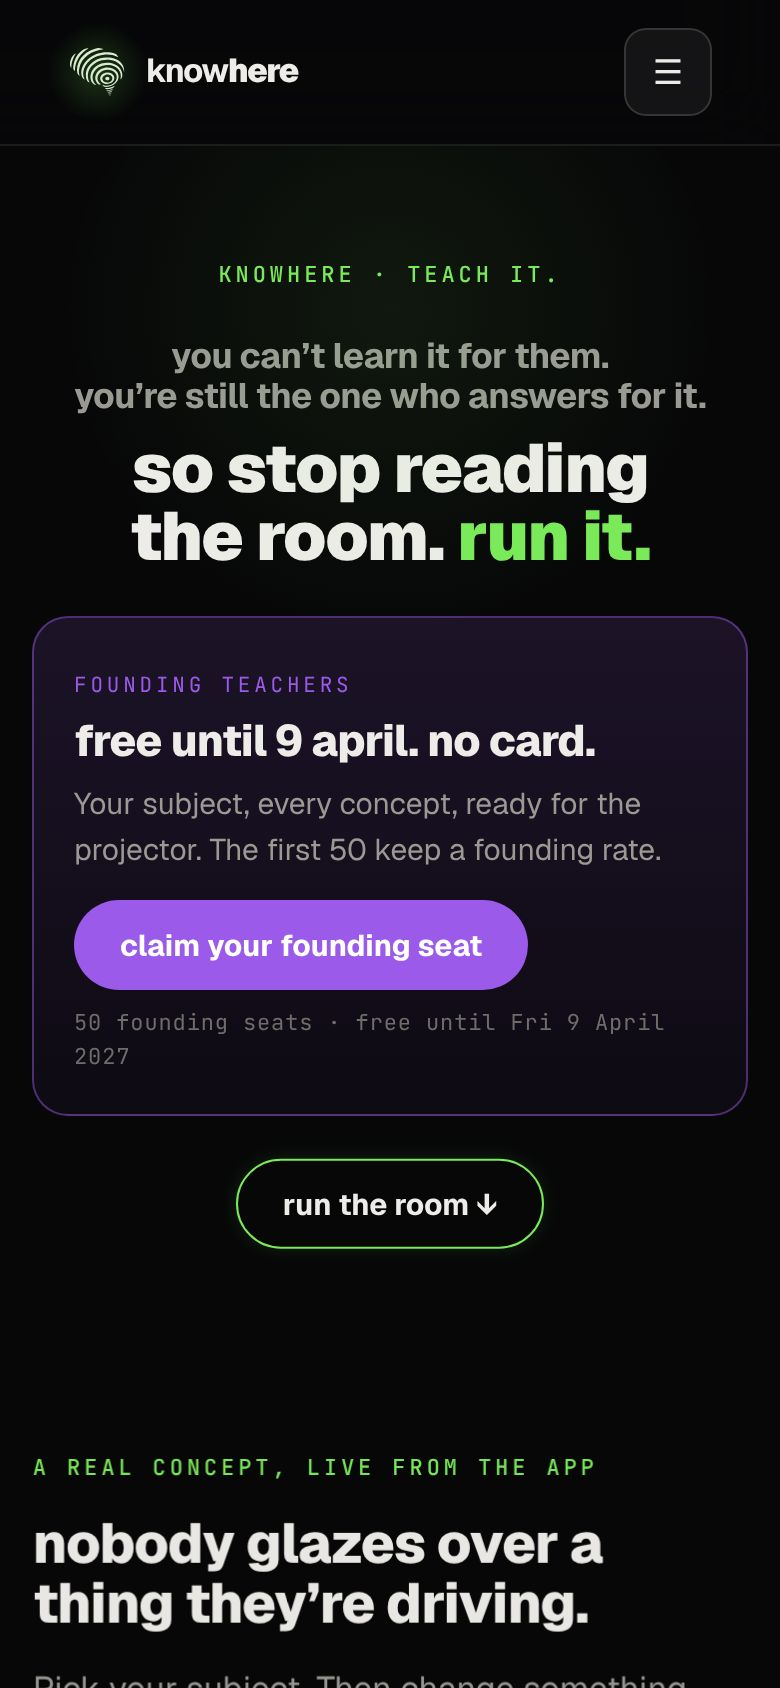
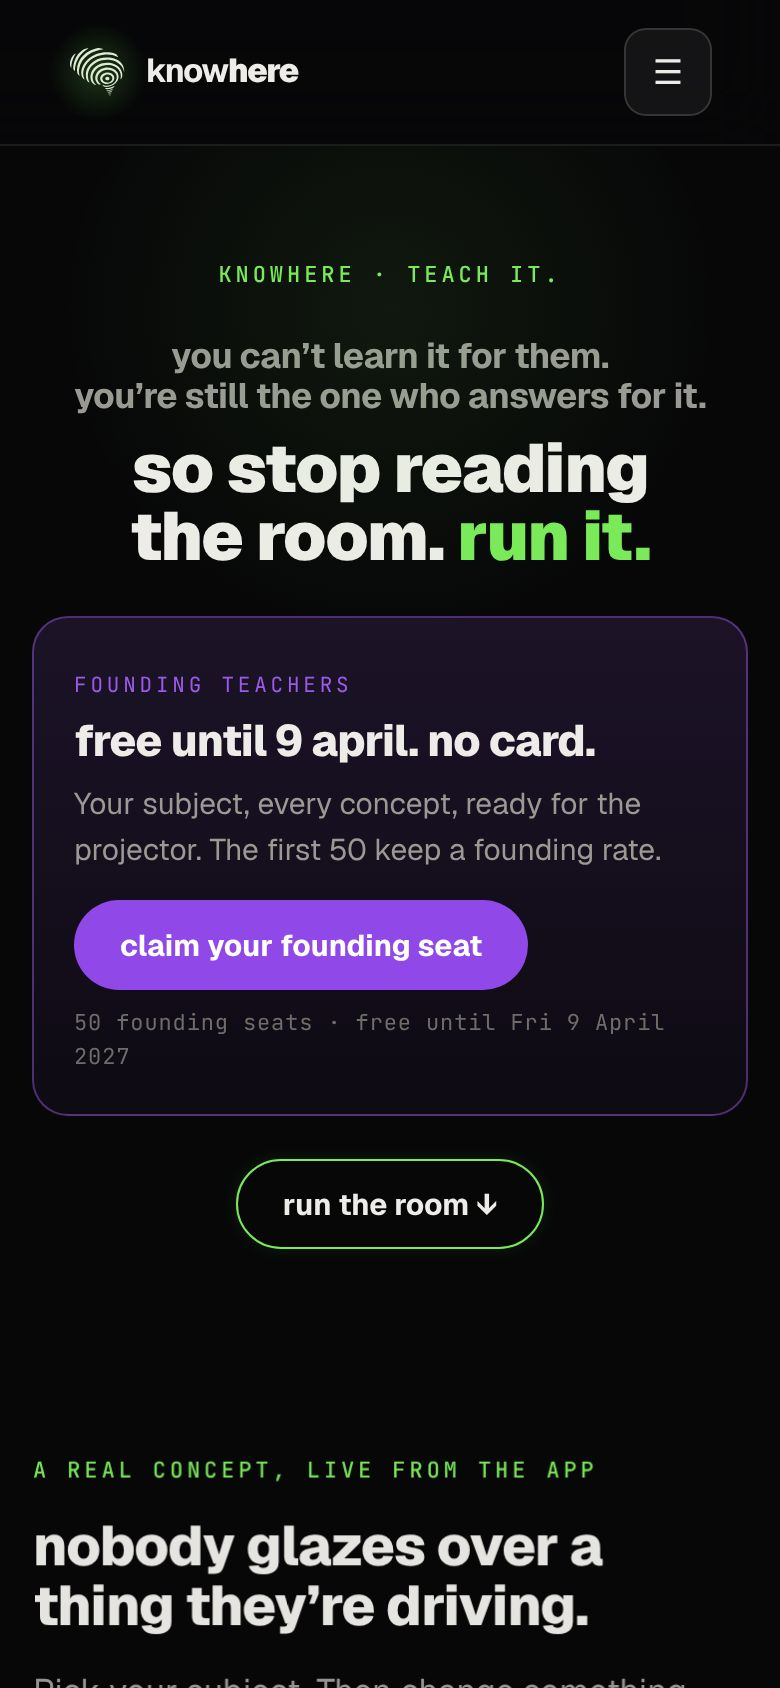
for-teachers: seat button passes contrast, and no more white-on-white on hover
- The purple seat button (hero + final card) is one step deeper, #9B5AEA -> #9048E8, so its
  white text is 4.9:1 (was 4.2:1). Cat, 5 Nov: option B.
- On hover the site's KW_LOGIN_HOVER turns every app link white, which left the purple
  button's white text on white. The text now goes #9048E8 on hover (4.9:1 on white).
  The brat inbox button was already fine (13.2:1 at rest, 20.1:1 on hover).
- _patches/for-teachers-v2/hover-check.js measures both states; rig ALL PASS.

Claude-Session: https://claude.ai/code/session_01WVwU9MB4WpVxkWaqHceQfY

diff --git a/_patches/for-teachers-v2/hover-check.js b/_patches/for-teachers-v2/hover-check.js
@@ -1,0 +1,16 @@
+const { chromium } = require('playwright');
+const OUT='_patches/for-teachers-v2/receipts';  /* run from the repo root with the site on :8787 */
+(async()=>{const b=await chromium.launch();const ctx=await b.newContext({viewport:{width:1440,height:900},deviceScaleFactor:2});
+await ctx.route(/cloud\.umami\.is|connect\.facebook\.net/,r=>r.abort());
+const p=await ctx.newPage();await p.goto('http://localhost:8787/for-teachers',{waitUntil:'load'});await p.waitForTimeout(1200); await p.addStyleTag({content:'html.kw-float [data-float]{opacity:1!important;transform:none!important;transition:none!important}'});
+const L=h=>{const c=h.match(/\d+/g).slice(0,3).map(x=>x/255).map(x=>x<=0.03928?x/12.92:((x+0.055)/1.055)**2.4);return 0.2126*c[0]+0.7152*c[1]+0.0722*c[2]};
+const cr=(a,b)=>{const x=L(a),y=L(b);return ((Math.max(x,y)+0.05)/(Math.min(x,y)+0.05)).toFixed(2)};
+for (const sel of ['.hero .offer .btn-primary','.final .offer .btn-primary','.inbox .btn-primary']) {
+  const el=p.locator(sel); await el.scrollIntoViewIfNeeded(); await p.mouse.move(0,0); await p.waitForTimeout(400);
+  const rest=await el.evaluate(e=>{const s=getComputedStyle(e);return [s.color,s.backgroundColor]});
+  await el.hover(); await p.waitForTimeout(500);
+  const hov=await el.evaluate(e=>{const s=getComputedStyle(e);return [s.color,s.backgroundColor]});
+  console.log(sel.padEnd(28),'rest',rest.join(' on '),cr(rest[0],rest[1])+':1','| hover',hov.join(' on '),cr(hov[0],hov[1])+':1');
+  if (sel.startsWith('.hero')) { await p.locator('.hero .offer').screenshot({path:OUT+'/7-desk-offer-hover.png'}); await p.mouse.move(0,0); await p.waitForTimeout(400); await p.locator('.hero .offer').screenshot({path:OUT+'/7-desk-offer-rest.png'}); }
+}
+await b.close();})();

diff --git a/for-teachers.html b/for-teachers.html
@@ -299,6 +299,8 @@ html.kw-snap{scroll-snap-type:y proximity}
 .kt2 .subjects span a:hover{text-decoration:underline}
 .kt2 .subjects span.soon{color:var(--dimmer);border-style:dashed}
 .kt2 .offer h2.offer-t{font-size:22px;font-weight:800;line-height:1.15}
+.kt2 .offer .btn-primary{background:#9048E8}
+.kt2 .offer .btn-primary:hover,.kt2 .offer .btn-primary:focus-visible{color:#9048E8!important}
 .kt2 .ks-stage .poster{position:relative;inset:auto;display:block;min-height:0}
 .kt2 .ks-stage .poster img{display:block;width:100%;height:auto}
 .kt2 .ks-stage:not(.ready) iframe{position:absolute;inset:0;height:100%!important}

diff --git a/_patches/for-teachers-v2/build.py b/_patches/for-teachers-v2/build.py
@@ -108,6 +108,10 @@ CSS = scope(css)
 assert 'kwBreathe' not in CSS and '.kt2 .notes' not in CSS and '.kt2 footer' not in CSS
 # headings follow the site: the head lower-cases every h1-h3 (Cat, 5 Nov: consistency over the mockup's sentence case)
 CSS += '\n.kt2 .offer h2.offer-t{font-size:22px;font-weight:800;line-height:1.15}'
+# the purple seat button (Cat, 5 Nov: B): one step deeper than #9B5AEA so white text passes 4.5:1 (4.9:1). On hover the
+# site's KW_LOGIN_HOVER turns every app link white, so the text goes the same purple there (4.9:1 on white), not white on white
+CSS += ('\n.kt2 .offer .btn-primary{background:#9048E8}'
+        '\n.kt2 .offer .btn-primary:hover,.kt2 .offer .btn-primary:focus-visible{color:#9048E8!important}')
 # the poster: in flow (it sets the stage height) until the cropped widget is ready, then the iframe takes over
 CSS += ('\n.kt2 .ks-stage .poster{position:relative;inset:auto;display:block;min-height:0}'
         '\n.kt2 .ks-stage .poster img{display:block;width:100%;height:auto}'
